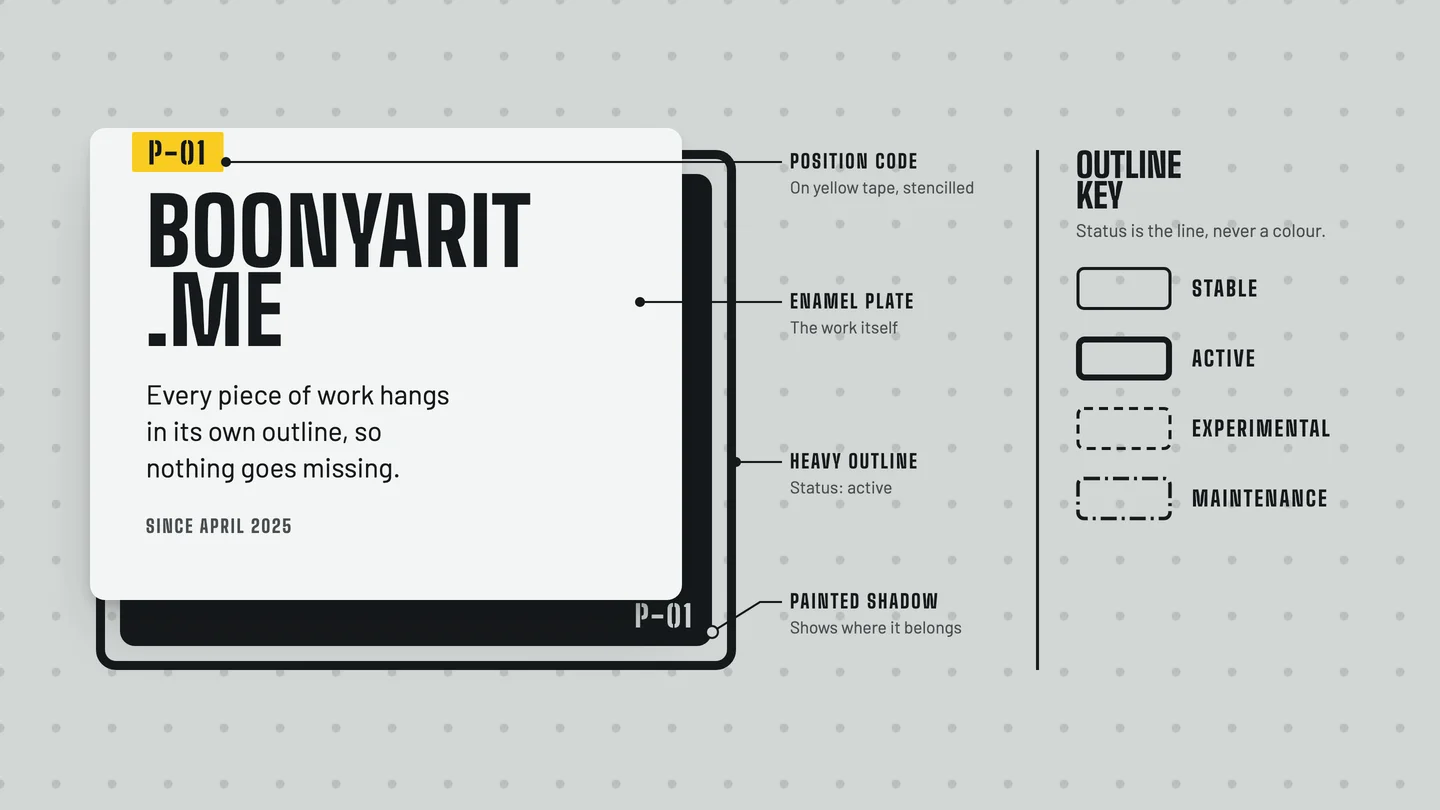
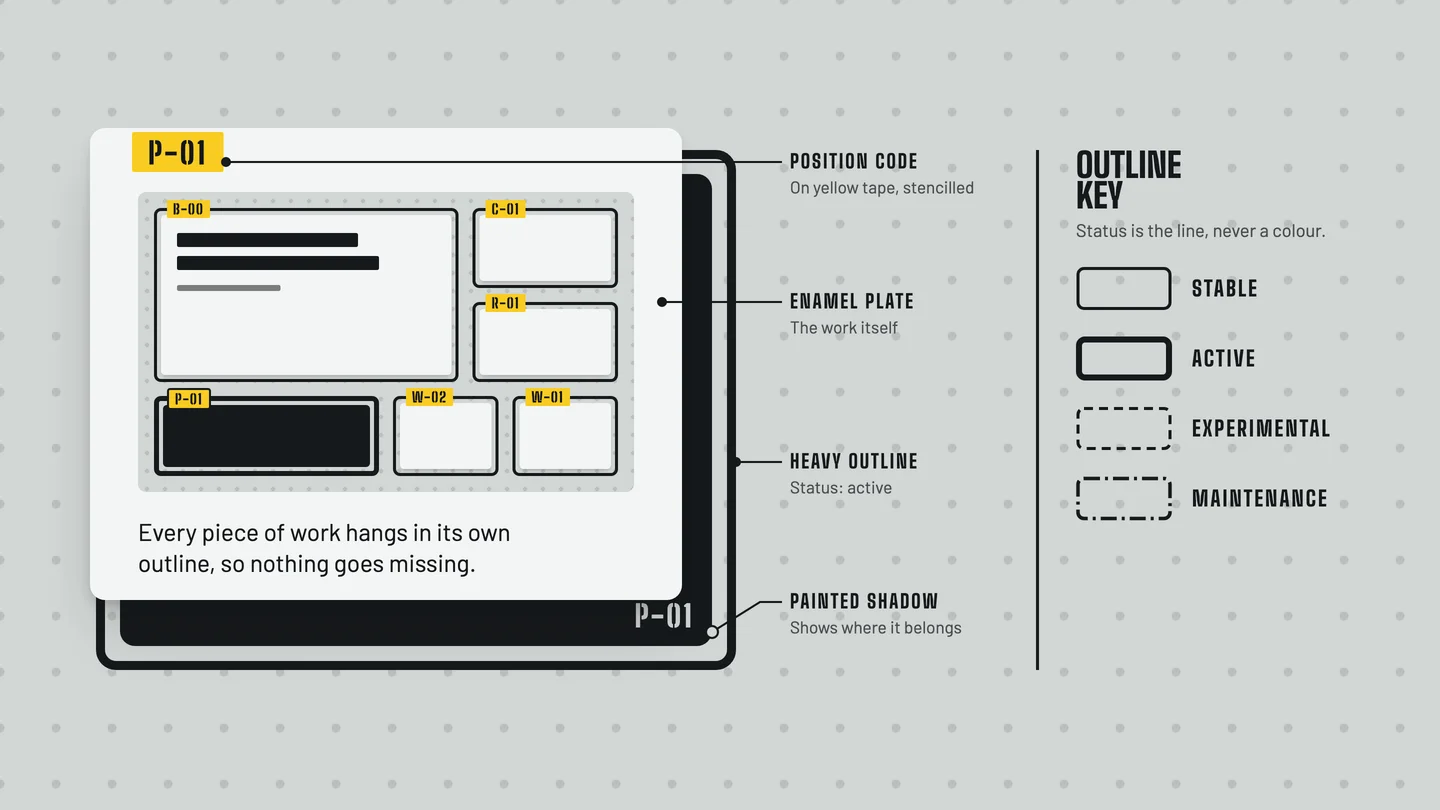
style: show the name once per screen and set one title scale
On the home page the header wordmark collapses while the hero name is in
view and returns after it scrolls past. Redraw the portfolio cover without
name lettering. Add type-display and type-headline so every page title
shares one size and headings sit a clear step below it, which also brings
the about name down from 6rem. Keep project live and source links
wrapping together, and give contact form labels the stamp weight.

Changed region(s): [[0.0938, 0.216, 0.4688, 0.7099]]

diff --git a/src/common/components/layout/app-header.tsx b/src/common/components/layout/app-header.tsx
@@ -40,6 +40,36 @@ function isCurrent(pathname: string, href: string): boolean {
   return pathname === href || pathname.startsWith(`${href}/`);
 }
 
+/**
+ * On the home page the hero already sets the name large, so the header
+ * wordmark waits until the hero heading scrolls out of view.
+ */
+function useHeroInView(pathname: string): boolean {
+  const [isInView, setIsInView] = useState(pathname === '/');
+
+  useEffect(() => {
+    const heading =
+      pathname === '/' ? document.getElementById('board-heading') : null;
+
+    if (!heading) {
+      setIsInView(false);
+
+      return;
+    }
+
+    const observer = new IntersectionObserver(
+      (entries) => setIsInView(entries[0]?.isIntersecting ?? false),
+      { rootMargin: '-64px 0px 0px 0px' },
+    );
+
+    observer.observe(heading);
+
+    return () => observer.disconnect();
+  }, [pathname]);
+
+  return isInView;
+}
+
 function getHeaderClasses(
   shouldRenderDrawer: boolean,
   isScrolled: boolean,
@@ -60,6 +90,7 @@ export function AppHeader() {
   const [isDrawerOpen, setIsDrawerOpen] = useState(false);
   const [shouldRenderDrawer, setShouldRenderDrawer] = useState(false);
   const pathname = usePathname();
+  const isHeroInView = useHeroInView(pathname);
 
   const handleDrawerOpenChange = useCallback((open: boolean) => {
     if (open) {
@@ -124,7 +155,7 @@ export function AppHeader() {
       <div className="container flex h-16 items-center justify-between gap-4">
         <Link
           href="/"
-          className="flex items-center gap-3"
+          className="flex items-center"
           aria-label="Boonyarit Iamsa-ard, home"
         >
           <span className="relative block size-8 shrink-0 overflow-hidden rounded-[3px] border-2 border-paint">
@@ -136,12 +167,23 @@ export function AppHeader() {
               className="object-cover grayscale-[35%]"
             />
           </span>
-          <span className="flex items-baseline gap-2.5">
-            <span className="font-display font-extrabold text-[1.375rem] uppercase leading-none tracking-[0.03em]">
-              Boonyarit Iamsa-ard
-            </span>
-            <span className="stamp hidden text-muted-foreground text-xs leading-none lg:inline">
-              Software Engineer
+          {/* Collapses to nothing while hidden, so the link shrinks to the avatar. */}
+          <span
+            aria-hidden={isHeroInView || undefined}
+            className={cn(
+              'grid transition-[grid-template-columns,opacity] duration-300 ease-out motion-reduce:transition-none',
+              isHeroInView ? 'grid-cols-[0fr] opacity-0' : 'grid-cols-[1fr]',
+            )}
+          >
+            <span className="min-w-0 overflow-hidden">
+              <span className="flex items-baseline gap-2.5 whitespace-nowrap pl-3">
+                <span className="font-display font-extrabold text-[1.375rem] uppercase leading-none tracking-[0.03em]">
+                  Boonyarit Iamsa-ard
+                </span>
+                <span className="stamp hidden text-muted-foreground text-xs leading-none lg:inline">
+                  Software Engineer
+                </span>
+              </span>
             </span>
           </span>
         </Link>

diff --git a/src/features/projects/components/project-header.tsx b/src/features/projects/components/project-header.tsx
@@ -15,9 +15,7 @@ const linkClassName = 'stamp tape-link inline-flex items-center gap-1 text-xs';
 export function ProjectHeader({ project }: ProjectHeaderProps) {
   return (
     <header className="space-y-6 pt-14 pb-10 sm:pt-20">
-      <h1 className="font-display font-extrabold text-[clamp(2.75rem,6.4vw,5.5rem)] uppercase leading-[0.88]">
-        {project.title}
-      </h1>
+      <h1 className="type-headline">{project.title}</h1>
       <div className="flex flex-wrap items-center gap-x-5 gap-y-2">
         <ProjectStatusLine status={project.status} />
         <p className="text-muted-foreground text-sm tabular-nums">
@@ -33,28 +31,30 @@ export function ProjectHeader({ project }: ProjectHeaderProps) {
             <Tag key={tag} tag={tag} resource="projects" />
           ))}
         </div>
-        {project.preview ? (
-          <a
-            href={project.preview}
-            target="_blank"
-            rel="noopener noreferrer"
-            className={linkClassName}
-          >
-            Live site
-            <ArrowUpRightIcon className="size-3.5" aria-hidden="true" />
-          </a>
-        ) : null}
-        {project.github ? (
-          <a
-            href={project.github}
-            target="_blank"
-            rel="noopener noreferrer"
-            className={linkClassName}
-          >
-            Source
-            <ArrowUpRightIcon className="size-3.5" aria-hidden="true" />
-          </a>
-        ) : null}
+        <div className="flex gap-6">
+          {project.preview ? (
+            <a
+              href={project.preview}
+              target="_blank"
+              rel="noopener noreferrer"
+              className={linkClassName}
+            >
+              Live site
+              <ArrowUpRightIcon className="size-3.5" aria-hidden="true" />
+            </a>
+          ) : null}
+          {project.github ? (
+            <a
+              href={project.github}
+              target="_blank"
+              rel="noopener noreferrer"
+              className={linkClassName}
+            >
+              Source
+              <ArrowUpRightIcon className="size-3.5" aria-hidden="true" />
+            </a>
+          ) : null}
+        </div>
       </div>
     </header>
   );

diff --git a/src/core/styles/globals.css b/src/core/styles/globals.css
@@ -264,6 +264,27 @@
 }
 
 /* A label in the board's lettering: small, upright, tracked. */
+/* Page titles: the home name plate and every index page. One size, so the
+   name never outranks or trails the rest of the site. */
+@utility type-display {
+  font-family: var(--font-display);
+  font-weight: 800;
+  font-size: clamp(2.75rem, 5vw, 4.5rem);
+  line-height: 0.86;
+  letter-spacing: 0.005em;
+  text-transform: uppercase;
+}
+
+/* Section headings on the board and detail-page titles. Kept a clear step
+   (about 1.4x) below display so the two never read as the same role. */
+@utility type-headline {
+  font-family: var(--font-display);
+  font-weight: 800;
+  font-size: clamp(2.25rem, 3.6vw, 3.25rem);
+  line-height: 0.9;
+  text-transform: uppercase;
+}
+
 @utility stamp {
   font-family: var(--font-display);
   font-weight: 700;

diff --git a/src/app/not-found.tsx b/src/app/not-found.tsx
@@ -14,9 +14,7 @@ export default function NotFound() {
     <section className="pegboard flex min-h-[calc(100dvh-4rem)] items-center py-16">
       <div className="container grid items-center gap-12 md:grid-cols-2">
         <div className="space-y-6">
-          <h1 className="font-display font-extrabold text-[clamp(3rem,7vw,6rem)] uppercase leading-[0.86]">
-            This slot is empty
-          </h1>
+          <h1 className="type-display">This slot is empty</h1>
           <p className="max-w-[44ch] text-lg">
             There&apos;s an outline here but nothing in it. The page may have
             moved, or the link may be mistyped.

diff --git a/src/features/articles/components/article-header.tsx b/src/features/articles/components/article-header.tsx
@@ -10,9 +10,7 @@ type ArticleHeaderProps = Readonly<{
 export function ArticleHeader({ article }: ArticleHeaderProps) {
   return (
     <header className="space-y-6 pt-14 pb-10 sm:pt-20">
-      <h1 className="font-display font-extrabold text-[clamp(2.5rem,5.6vw,4.75rem)] uppercase leading-[0.9]">
-        {article.title}
-      </h1>
+      <h1 className="type-headline text-balance">{article.title}</h1>
       <p className="flex flex-wrap gap-x-3 text-muted-foreground text-sm tabular-nums">
         <time dateTime={new Date(article.date).toISOString()}>
           {formatDate(article.date)}

diff --git a/src/features/landing/components/path-section.tsx b/src/features/landing/components/path-section.tsx
@@ -8,10 +8,7 @@ export function PathSection() {
     >
       <Slot code="L-01" plateClassName="grid lg:grid-cols-12">
         <div className="space-y-6 p-6 sm:p-10 lg:col-span-7">
-          <h2
-            id="path-heading"
-            className="font-display font-extrabold text-[clamp(2.25rem,4.4vw,3.75rem)] uppercase leading-[0.9]"
-          >
+          <h2 id="path-heading" className="type-headline">
             From the hangar floor to the codebase
           </h2>
           <div className="max-w-[62ch] space-y-4 text-lg leading-relaxed">

diff --git a/src/features/landing/components/call-to-action-section.tsx b/src/features/landing/components/call-to-action-section.tsx
@@ -16,10 +16,7 @@ export function CallToActionSection() {
     >
       <div className="container grid gap-12 py-20 sm:py-28 lg:grid-cols-12 lg:gap-8">
         <div className="space-y-6 lg:col-span-5">
-          <h2
-            id="contact-heading"
-            className="font-display font-extrabold text-[clamp(2.5rem,5vw,4.25rem)] uppercase leading-[0.88]"
-          >
+          <h2 id="contact-heading" className="type-headline">
             Write to me
           </h2>
           <div className="max-w-[44ch] space-y-3 text-lg">

diff --git a/src/app/about/page.tsx b/src/app/about/page.tsx
@@ -20,9 +20,7 @@ export default function AboutPage() {
     <div>
       <section className="container pt-14 pb-12 sm:pt-20">
         <div className="space-y-6">
-          <h1 className="font-display font-extrabold text-[clamp(3rem,7vw,6rem)] uppercase leading-[0.86]">
-            Boonyarit Iamsa-ard
-          </h1>
+          <h1 className="type-display">Boonyarit Iamsa-ard</h1>
           <p className="stamp text-muted-foreground">
             Software Engineer · Bangkok, Thailand
           </p>

diff --git a/src/features/landing/components/hero-section.tsx b/src/features/landing/components/hero-section.tsx
@@ -42,10 +42,7 @@ export function HeroSection() {
           style={settleOrder(0)}
         >
           <div className="space-y-5">
-            <h1
-              id="board-heading"
-              className="font-display font-extrabold text-[clamp(3.25rem,6.6vw,6rem)] uppercase leading-[0.86] tracking-[0.005em]"
-            >
+            <h1 id="board-heading" className="type-display">
               Boonyarit
               <br />
               Iamsa-ard

diff --git a/src/common/components/page-header.tsx b/src/common/components/page-header.tsx
@@ -19,9 +19,7 @@ export function PageHeader({
     <header
       className={cn('container space-y-5 pt-14 pb-10 sm:pt-20', className)}
     >
-      <h1 className="font-display font-extrabold text-[clamp(3rem,7vw,6rem)] uppercase leading-[0.86]">
-        {title}
-      </h1>
+      <h1 className="type-display">{title}</h1>
       {description ? (
         <p className="max-w-[56ch] text-lg text-muted-foreground sm:text-xl">
           {description}

diff --git a/src/features/landing/components/contact-form.tsx b/src/features/landing/components/contact-form.tsx
@@ -18,7 +18,7 @@ import { Textarea } from '@/common/components/ui/textarea';
 
 import { useContactForm } from '../hooks/use-contact-form';
 
-const labelClassName = 'stamp text-foreground text-xs';
+const labelClassName = 'stamp font-bold text-foreground text-xs';
 
 export function ContactForm() {
   const { form, handleSubmitWithAction, isSending, sentTo, startOver } =

diff --git a/DESIGN.md b/DESIGN.md
@@ -24,13 +24,13 @@ colors:
 typography:
   display:
     fontFamily: 'Big Shoulders, ui-sans-serif, sans-serif'
-    fontSize: 'clamp(3.25rem, 6.6vw, 6rem)'
+    fontSize: 'clamp(2.75rem, 5vw, 4.5rem)'
     fontWeight: 800
     lineHeight: 0.86
     letterSpacing: '0.005em'
   headline:
     fontFamily: 'Big Shoulders, ui-sans-serif, sans-serif'
-    fontSize: 'clamp(2.25rem, 4.4vw, 3.75rem)'
+    fontSize: 'clamp(2.25rem, 3.6vw, 3.25rem)'
     fontWeight: 800
     lineHeight: 0.9
   title:
@@ -219,8 +219,8 @@ A near-neutral industrial palette with one safety-yellow accent; neutrals lean f
 
 ### Hierarchy
 
-- **Display** (800, clamp(3.25rem, 6.6vw, 6rem), 0.86, uppercase): the home name plate and page titles (page titles use clamp(3rem, 7vw, 6rem)).
-- **Headline** (800, clamp(2.25rem, 4.4vw, 3.75rem) to clamp(2.5rem, 5vw, 4.25rem), 0.88–0.9, uppercase): section headings on the home board and detail-page titles.
+- **Display** (`type-display`: 800, clamp(2.75rem, 5vw, 4.5rem), 0.86, uppercase): every page title at one size: the home name plate, About, the Projects and Articles indexes, and the 404 title.
+- **Headline** (`type-headline`: 800, clamp(2.25rem, 3.6vw, 3.25rem), 0.9, uppercase): section headings on the home board and article and project detail titles. It stays about 1.4x below Display so the two roles never read as one.
 - **Title** (700, 1.875rem, 0.95, uppercase): project and article titles on plates; 1.5rem in compact slots.
 - **Prose Heading** (Barlow 700, sentence case): in-article h2 at 1.5rem (2rem from sm) with 1.15–1.2 leading and -0.01em tracking; h3 at 1.375rem, 1.3 leading. Article headings are often full sentences, so they speak in Barlow rather than shout in lettering.
 - **Body** (400, 1.125rem, 1.625): running prose, capped at 62–68ch; 1rem for card descriptions; 1.25rem for lead lines.
